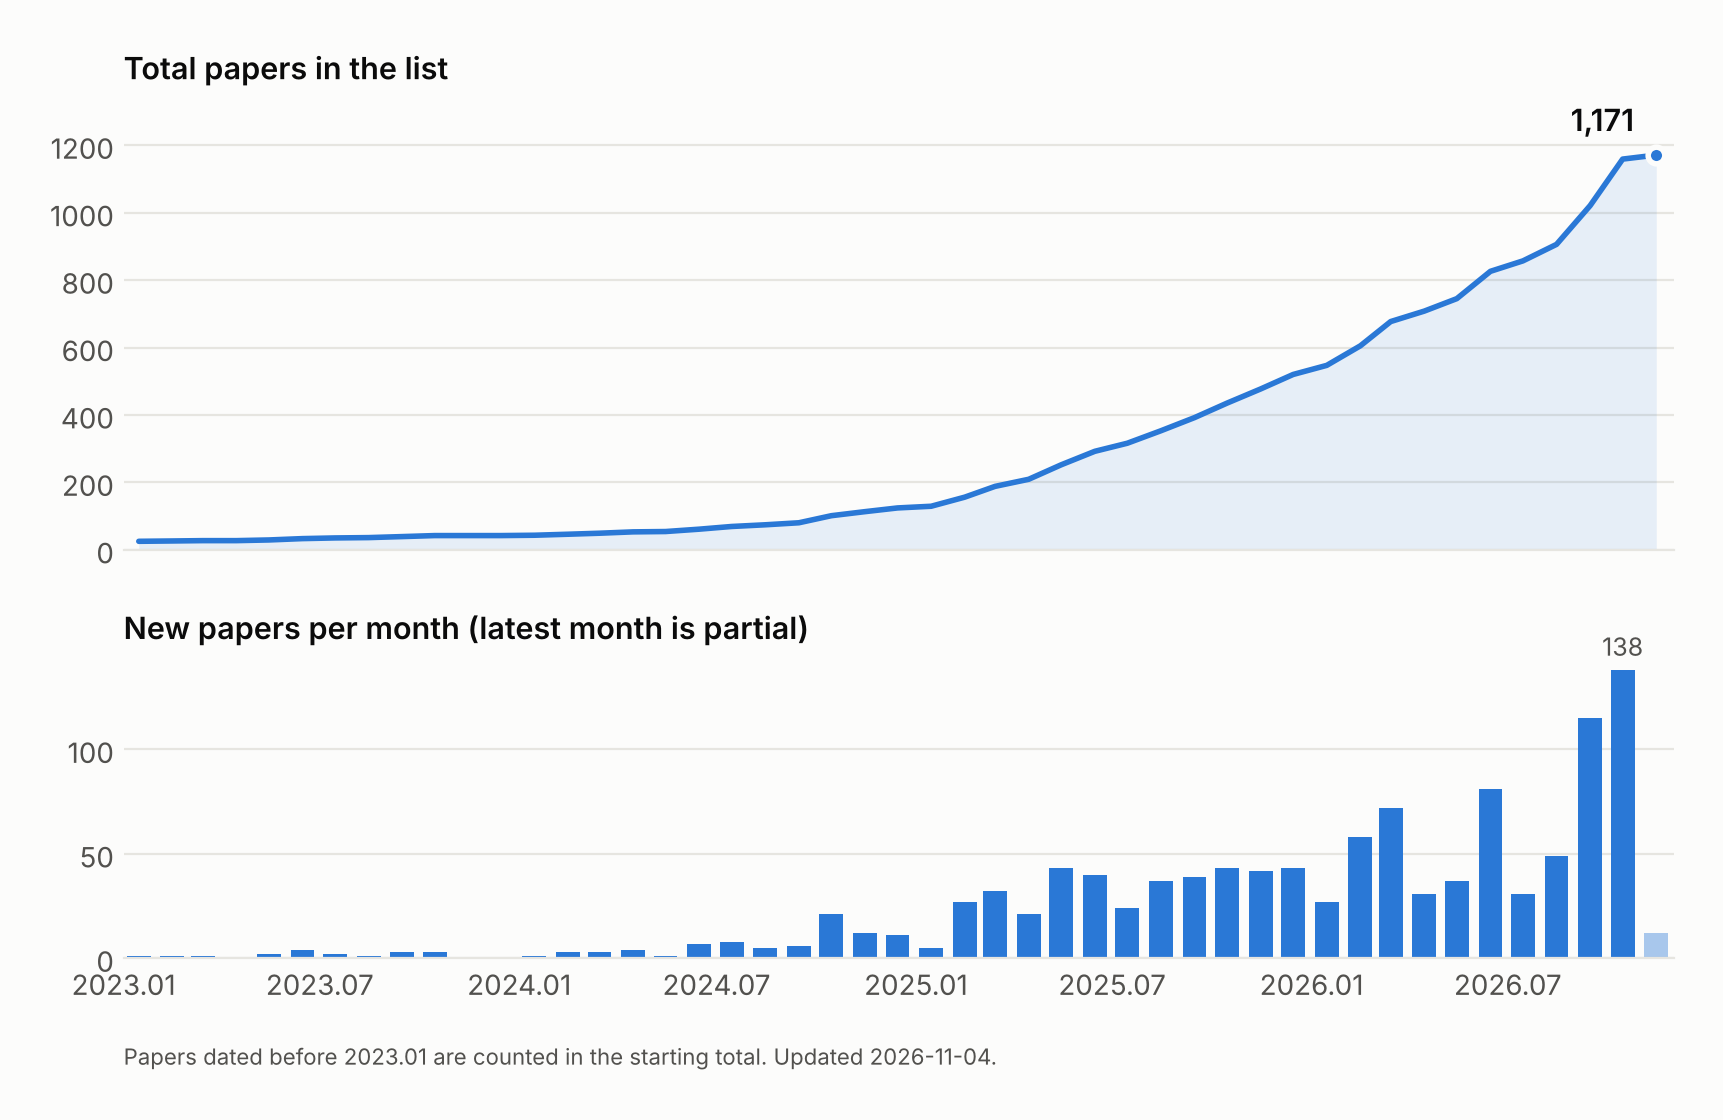
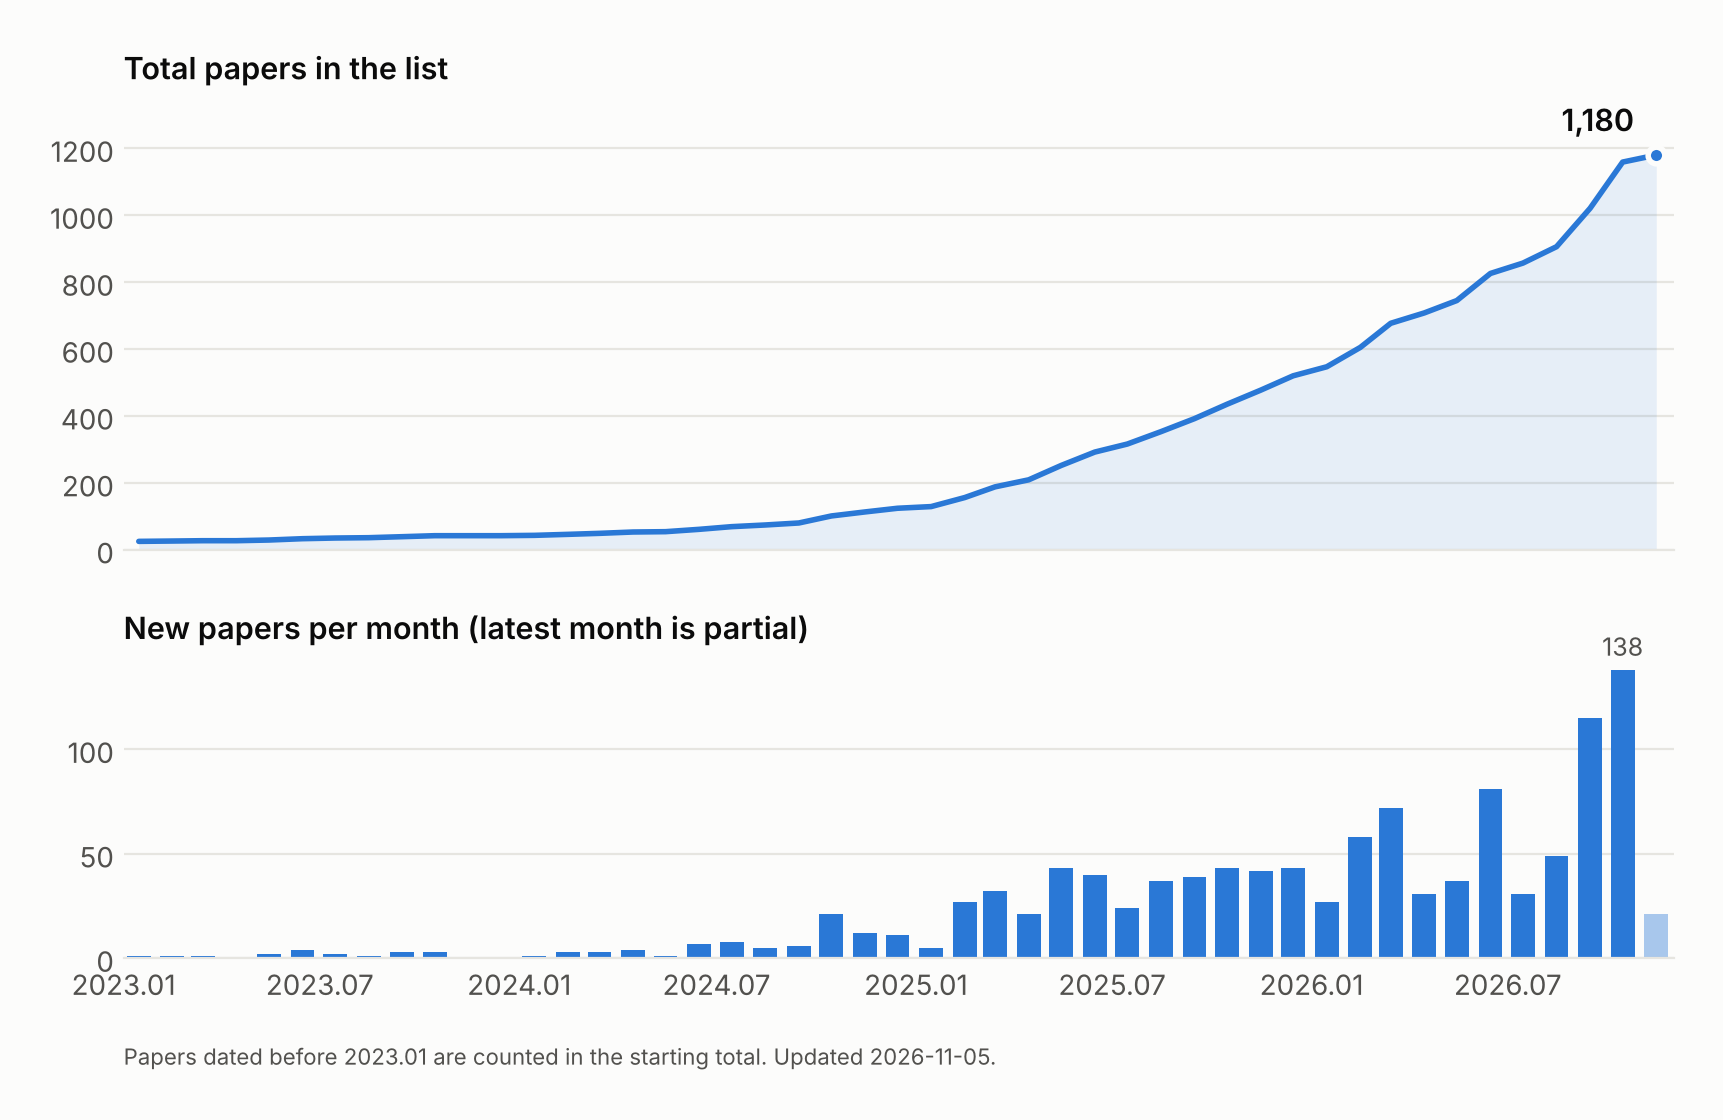
Add 9 papers from arXiv (2026-11-05)
Claude-Session: https://claude.ai/code/session_01T5jKYTThDMf5et5asENEuv

diff --git a/README.md b/README.md
@@ -28,6 +28,11 @@ Feel free to pull a request for new papers/codes about humanoid robot learning.
 ---
 
 ## Loco-Manipulation and Whole-Body-Control
+- [arXiv 2026.11](https://arxiv.org/abs/2611.05754), GRASP: Gradient-Guided Sampling for Contact-Rich Physics-Based Motion Retargeting, [website](https://computationalrobotics.seas.harvard.edu/GRASP/)
+- [arXiv 2026.11](https://arxiv.org/abs/2611.05507), Ctrl-F: Force as an Interface for Humanoid Loco-Manipulation, [website](https://forcectrl.github.io/)
+- [CoRL 2026](https://arxiv.org/abs/2611.05113), HLO-AMP: Hierarchical Loco-Manipulation from Object-Aware Motion Priors
+- [arXiv 2026.11](https://arxiv.org/abs/2611.04839), Coordinating Humanoid Loco-Manipulation through Action-Conditioned Latent Foresight, [website](https://ju6276.github.io/Action-Grounded-Foresight/)
+- [arXiv 2026.11](https://arxiv.org/abs/2611.04424), ReflexArc: Bottom-Up Integration of Instantaneous Tactile Reflexes into Whole-Body Humanoid Control, [website](https://minusmodulo.github.io/reflexarc-website/)
 - [arXiv 2026.11](https://arxiv.org/abs/2611.03648), Pixel: A Co-Designed Full-Stack Robot System for Learning General-Purpose Mobile Manipulation, [website](https://pixel-robot.com/pixel)
 - [arXiv 2026.11](https://arxiv.org/abs/2611.03647), Pixel-UMI: Learning Environment-Aware Whole-Body Manipulation from Sensorized Human Demonstrations, [website](https://pixel-robot.com/pixel-umi)
 - [arXiv 2026.11](https://arxiv.org/abs/2611.02968), ReContact: Reconstruct and Retarget Human Contacts from Video for Contact-Rich Humanoid Manipulation
@@ -528,6 +533,7 @@ Feel free to pull a request for new papers/codes about humanoid robot learning.
 - [2024.08](https://la.disneyresearch.com/publication/vmp-versatile-motion-priors-for-robustly-tracking-motion-on-physical-characters/), VMP: Versatile Motion Priors for Robustly Tracking Motion on Physical Characters, [website](https://la.disneyresearch.com/publication/vmp-versatile-motion-priors-for-robustly-tracking-motion-on-physical-characters/)
 - [2024.07](https://la.disneyresearch.com/publication/robot-motion-diffusion-model-motion-generation-for-robotic-characters/), Robot Motion Diffusion Model: Motion Generation for Robotic Characters,
 ## Manipulation
+- [arXiv 2026.11](https://arxiv.org/abs/2611.05163), RoboTryOn: Synthesizing Dexterous Robot Demonstrations from Human Videos via Virtual Try-On, [website](https://ryan-seungyong-lee.github.io/RoboTryOn)
 - [arXiv 2026.10](https://arxiv.org/abs/2610.39044), Catch It All!: Generalizable Dynamic Catching with a Dexterous Hand
 - [arXiv 2026.10](https://arxiv.org/abs/2610.27242), EmbodyHOI: Embodiment-Aware Generation of Hand-Object Interactions for Humanoid Dexterous Manipulation
 - [arXiv 2026.10](https://arxiv.org/abs/2610.26170), Data-Efficient Learning from Demonstration for Humanoid Robots via Feature-Level Perception and Prompt-Based Object Detection
@@ -924,6 +930,7 @@ Feel free to pull a request for new papers/codes about humanoid robot learning.
 - [2024.10](https://openreview.net/forum?id=wH7Wv0nAm8), Bi-Level Motion Imitation for Humanoid Robots, [website](https://sites.google.com/view/bmi-corl2024)
 
 ## Navigation
+- [arXiv 2026.11](https://arxiv.org/abs/2611.04972), Caging Vision-Language Navigation for Legged Robots via Barrier-Certified Safety Architecture
 - 🌟[arXiv 2026.10](https://arxiv.org/abs/2610.27688), Adaptive Traversal Tubes for Posture-Aware Navigation of Bipedal Humanoids
 - [arXiv 2026.10](https://arxiv.org/abs/2610.10748), TAPNAV: Humanoid Navigation through Tactile Active Perception
 - [arXiv 2026.10](https://arxiv.org/abs/2610.07396), What the Elevation Map Cannot See: Semantic-Aware Locomotion and Execution-Aware Navigation for Humanoid Robot
@@ -1010,6 +1017,8 @@ Feel free to pull a request for new papers/codes about humanoid robot learning.
 - [arXiv 2019.01](https://arxiv.org/abs/1901.08652), Learning Agile and Dynamic Motor Skills for Legged Robots
 
 ## Hardware Design
+- [arXiv 2026.11](https://arxiv.org/abs/2611.05302), PACT: Pose-Robust Actuation Co-Design for Tendon-Driven Robotic Hands
+- [RA-L 2026](https://arxiv.org/abs/2611.04334), RAIPAL: A Powerful and Agile Humanoid Arm for Human Tasks
 - [arXiv 2026.10](https://arxiv.org/abs/2610.36789), A fully articulated humanoid dexterous hand with human-level joint structure enabled by linkage-based actuation
 - [Humanoids 2026](https://arxiv.org/abs/2610.29030), PHD-Hand: A Printable Humanoid Dexterous Hand with Linkage-Driven 3-DOA Digits
 - [arXiv 2026.10](https://arxiv.org/abs/2610.16604), Design and Analysis of a Nonlinear Parallel Mechanism Coupling for Dynamic Humanoid Legs
